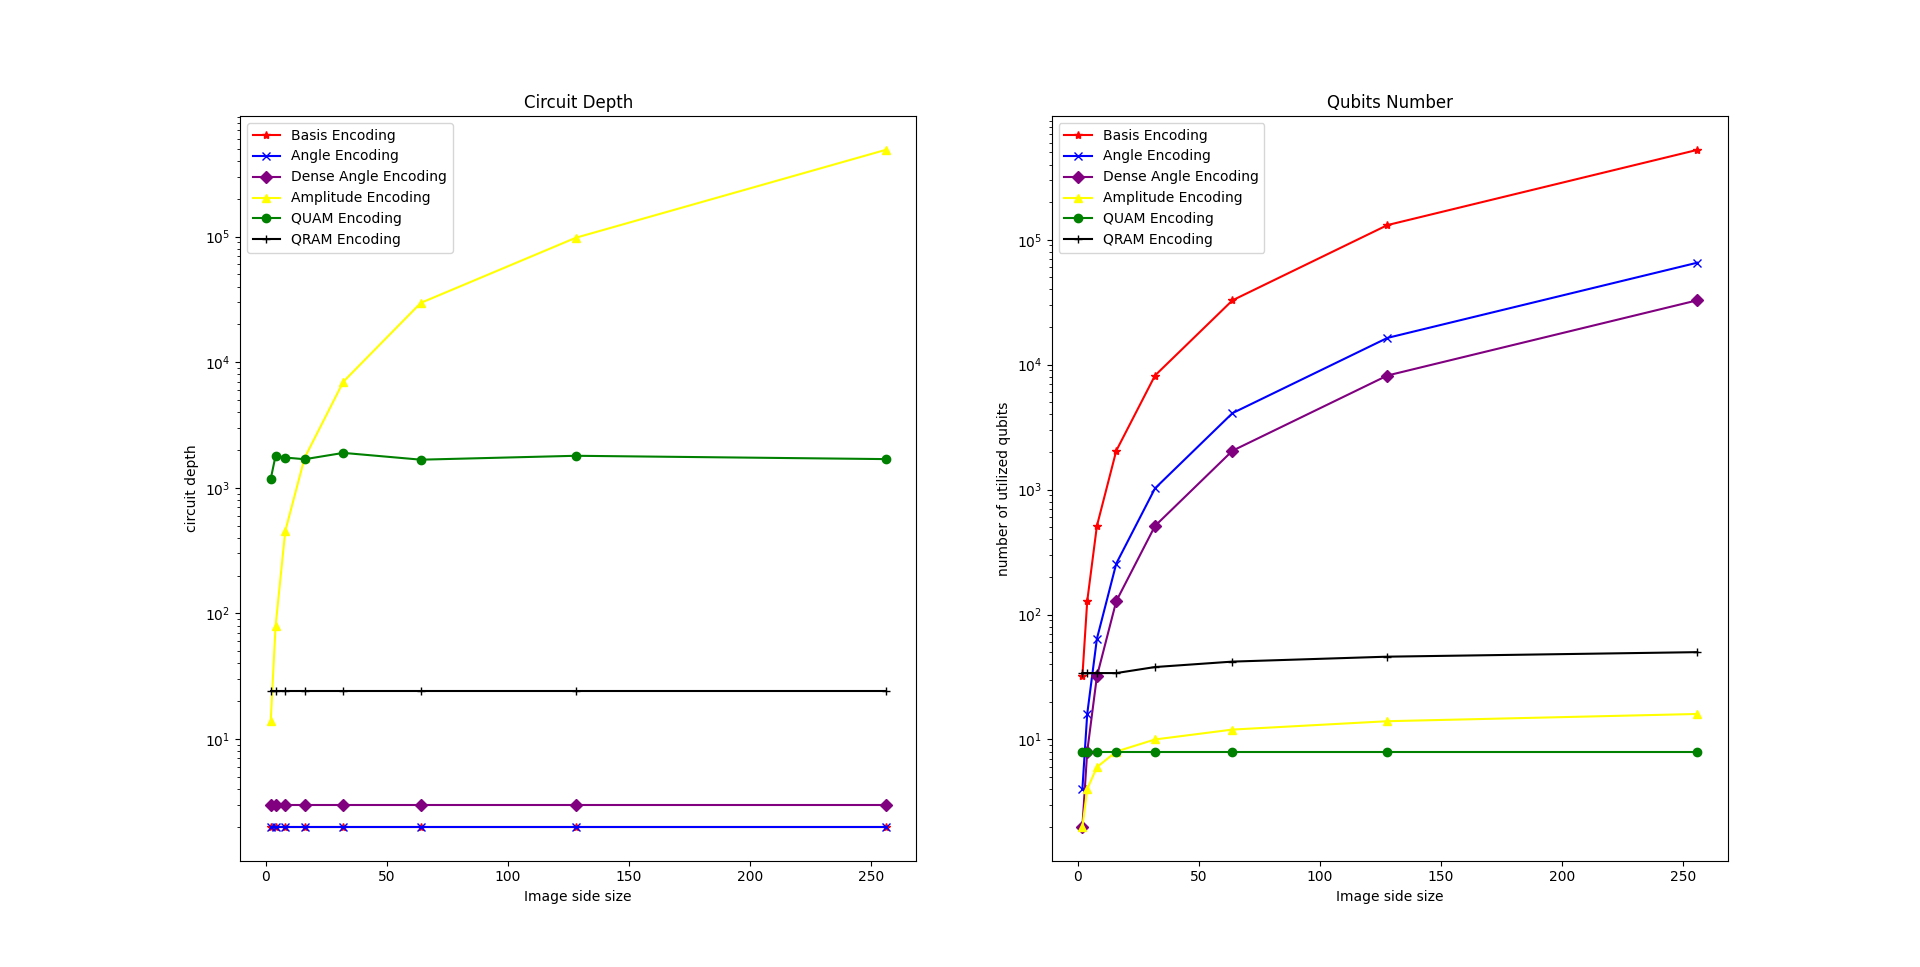
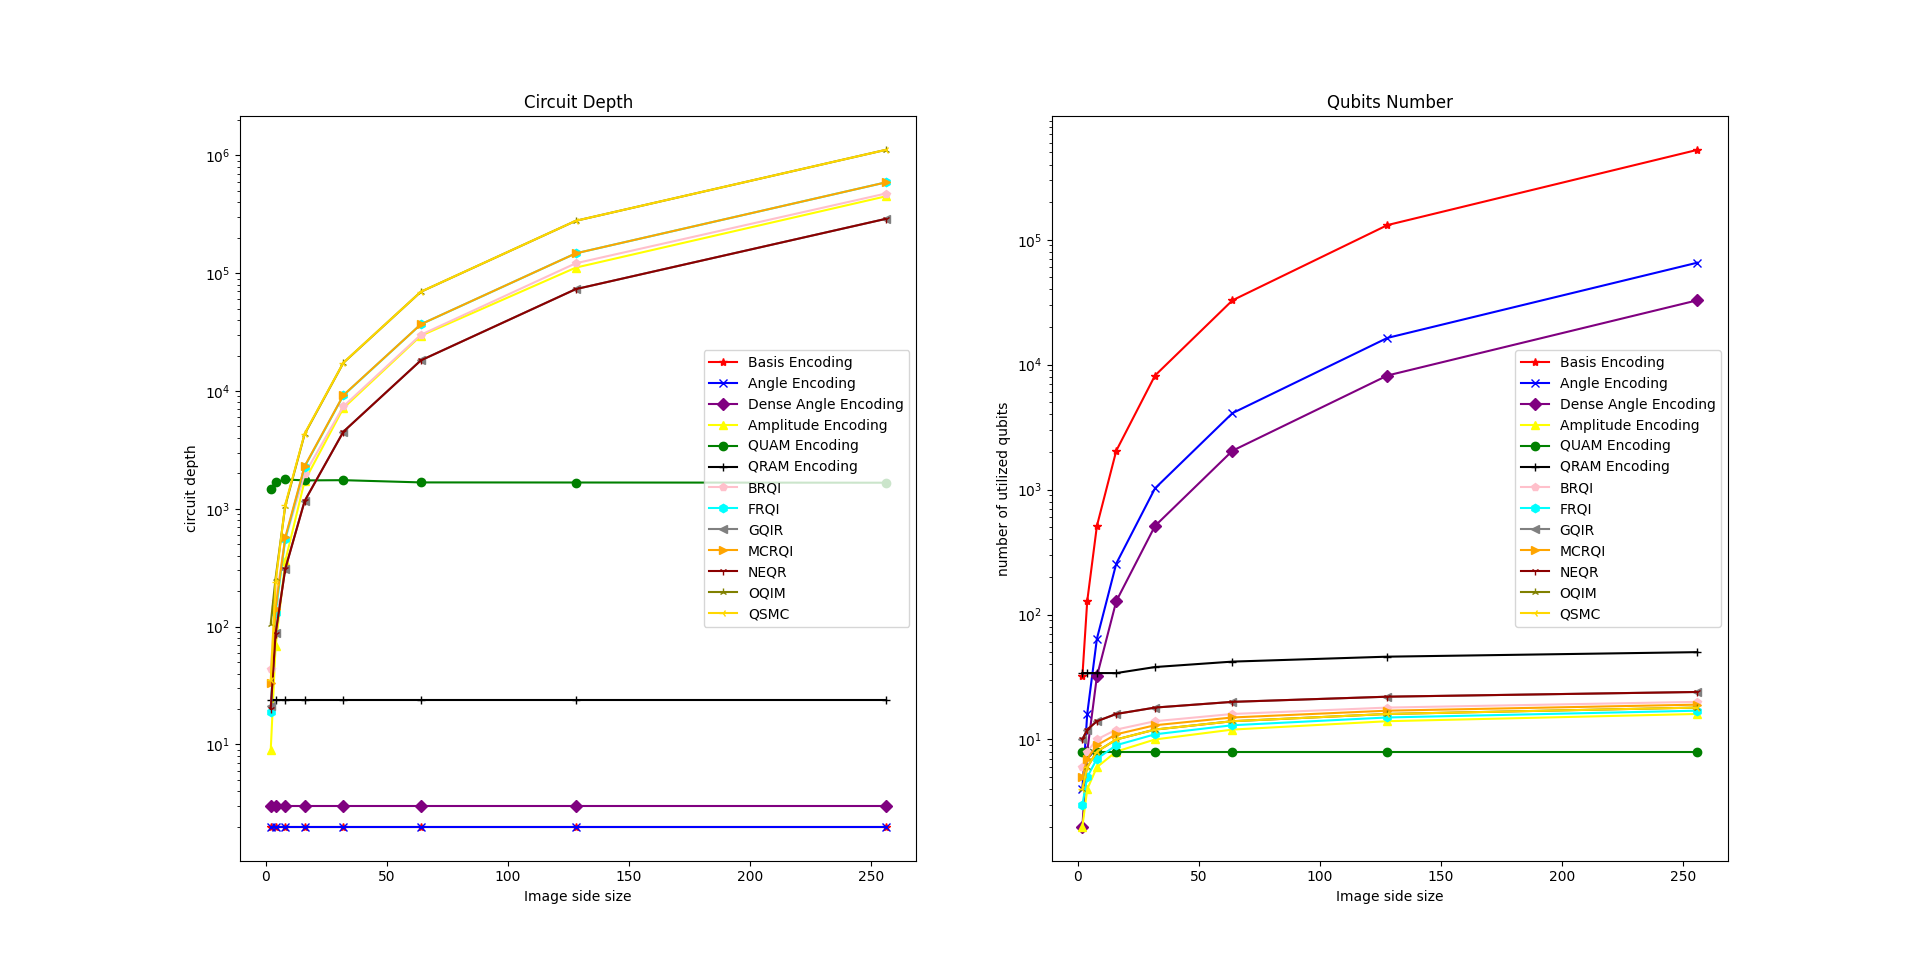
Upload

diff --git a/circuitEval.py b/circuitEval.py
@@ -147,38 +147,38 @@ if __name__ == '__main__':
[1 lines of base64/hex data omitted]
     hardware = setQiskitBackend(token, 'ibm_brisbane')
     sim = Aer.get_backend('qasm_simulator')
-    # amp_depths, amp_nums = circuitEvaluation(imgPath, imgSizeList, encoding='Amplitude Encoding', backend=hardware)
-    # dense_depths, dense_nums = circuitEvaluation(imgPath, imgSizeList, encoding='Dense Angle Encoding', backend=hardware)
-    # quam_depths, quam_nums = circuitEvaluation(imgPath, imgSizeList, encoding='QUAM Encoding', backend=hardware)
-    # basis_depths, basis_nums = circuitEvaluation(imgPath, imgSizeList, encoding='Basis Encoding', backend=hardware) # sim
-    # angle_depths, angle_nums = circuitEvaluation(imgPath, imgSizeList, encoding='Angle Encoding', backend=hardware)
-    # qram_depths, qram_nums = circuitEvaluation(imgPath, imgSizeList, encoding='QRAM Encoding', backend=hardware)
+    amp_depths, amp_nums = circuitEvaluation(imgPath, imgSizeList, encoding='Amplitude Encoding', backend=hardware)
+    dense_depths, dense_nums = circuitEvaluation(imgPath, imgSizeList, encoding='Dense Angle Encoding', backend=hardware)
+    quam_depths, quam_nums = circuitEvaluation(imgPath, imgSizeList, encoding='QUAM Encoding', backend=hardware)
+    basis_depths, basis_nums = circuitEvaluation(imgPath, imgSizeList, encoding='Basis Encoding', backend=hardware) # sim
+    angle_depths, angle_nums = circuitEvaluation(imgPath, imgSizeList, encoding='Angle Encoding', backend=hardware)
+    qram_depths, qram_nums = circuitEvaluation(imgPath, imgSizeList, encoding='QRAM Encoding', backend=hardware)
 
-    # brqi_depths, brqi_nums = circuitEvaluation(imgPath, imgSizeList, encoding='BRQI', backend=hardware)
-    # frqi_depths, frqi_nums = circuitEvaluation(imgPath, imgSizeList, encoding='FRQI', backend=hardware)
+    brqi_depths, brqi_nums = circuitEvaluation(imgPath, imgSizeList, encoding='BRQI', backend=hardware)
+    frqi_depths, frqi_nums = circuitEvaluation(imgPath, imgSizeList, encoding='FRQI', backend=hardware)
     # ftqr_depths, ftqr_nums = circuitEvaluation(imgPath, imgSizeList, encoding='FTQR', backend=sim)
-    # gqir_depths, gqir_nums = circuitEvaluation(imgPath, imgSizeList, encoding='GQIR', backend=hardware)
+    gqir_depths, gqir_nums = circuitEvaluation(imgPath, imgSizeList, encoding='GQIR', backend=hardware)
     mcrqi_depths, mcrqi_nums = circuitEvaluation(imgPath, imgSizeList, encoding='MCRQI', backend=hardware)
-    # neqr_depths, neqr_nums = circuitEvaluation(imgPath, imgSizeList, encoding='NEQR', backend=sim)
-    # oqim_depths, oqim_nums = circuitEvaluation(imgPath, imgSizeList, encoding='OQIM', backend=sim)
-    # qsmc_depths, qsmc_nums = circuitEvaluation(imgPath, imgSizeList, encoding='QSMC', backend=sim)
+    neqr_depths, neqr_nums = circuitEvaluation(imgPath, imgSizeList, encoding='NEQR', backend=sim)
+    oqim_depths, oqim_nums = circuitEvaluation(imgPath, imgSizeList, encoding='OQIM', backend=sim)
+    qsmc_depths, qsmc_nums = circuitEvaluation(imgPath, imgSizeList, encoding='QSMC', backend=sim)
 
     plt.subplot(1,2,1)
-    # plt.plot(imgSizeList, basis_depths, color = 'red', linestyle='-', label='Basis Encoding', marker='*')
-    # plt.plot(imgSizeList, angle_depths, color = 'blue', linestyle='-', label='Angle Encoding', marker='x')
-    # plt.plot(imgSizeList, dense_depths, color = 'purple', linestyle='-', label='Dense Angle Encoding', marker='D')
-    # plt.plot(imgSizeList, amp_depths, color = 'yellow', linestyle='-', label='Amplitude Encoding', marker='^')
-    # plt.plot(imgSizeList, quam_depths, color = 'green', linestyle='-', label='QUAM Encoding', marker='o')
-    # plt.plot(imgSizeList, qram_depths, color = 'black', linestyle='-', label='QRAM Encoding', marker='+')
+    plt.plot(imgSizeList, basis_depths, color = 'red', linestyle='-', label='Basis Encoding', marker='*')
+    plt.plot(imgSizeList, angle_depths, color = 'blue', linestyle='-', label='Angle Encoding', marker='x')
+    plt.plot(imgSizeList, dense_depths, color = 'purple', linestyle='-', label='Dense Angle Encoding', marker='D')
+    plt.plot(imgSizeList, amp_depths, color = 'yellow', linestyle='-', label='Amplitude Encoding', marker='^')
+    plt.plot(imgSizeList, quam_depths, color = 'green', linestyle='-', label='QUAM Encoding', marker='o')
+    plt.plot(imgSizeList, qram_depths, color = 'black', linestyle='-', label='QRAM Encoding', marker='+')
 
-    # plt.plot(imgSizeList, brqi_depths, color = 'pink', linestyle='-', label='BRQI', marker='p')
-    # plt.plot(imgSizeList, frqi_depths, color = 'cyan', linestyle='-', label='FRQI', marker='h')
+    plt.plot(imgSizeList, brqi_depths, color = 'pink', linestyle='-', label='BRQI', marker='p')
+    plt.plot(imgSizeList, frqi_depths, color = 'cyan', linestyle='-', label='FRQI', marker='h')
     # plt.plot(imgSizeList, ftqr_depths, color = 'brown', linestyle='-', label='FTQR', marker='v')
-    # plt.plot(imgSizeList, gqir_depths, color = 'gray', linestyle='-', label='GQIR', marker='<')
+    plt.plot(imgSizeList, gqir_depths, color = 'gray', linestyle='-', label='GQIR', marker='<')
     plt.plot(imgSizeList, mcrqi_depths, color = 'orange', linestyle='-', label='MCRQI', marker='>')
-    # plt.plot(imgSizeList, neqr_depths, color = 'darkred', linestyle='-', label='NEQR', marker='1')
-    # plt.plot(imgSizeList, oqim_depths, color = 'olive', linestyle='-', label='OQIM', marker='2')
-    # plt.plot(imgSizeList, qsmc_depths, color = 'gold', linestyle='-', label='QSMC', marker='3')
+    plt.plot(imgSizeList, neqr_depths, color = 'darkred', linestyle='-', label='NEQR', marker='1')
+    plt.plot(imgSizeList, oqim_depths, color = 'olive', linestyle='-', label='OQIM', marker='2')
+    plt.plot(imgSizeList, qsmc_depths, color = 'gold', linestyle='-', label='QSMC', marker='3')
 
     plt.legend(loc='best')
     plt.xlabel('Image side size')
@@ -187,21 +187,21 @@ if __name__ == '__main__':
     plt.title('Circuit Depth')
 
     plt.subplot(1,2,2)
-    # plt.plot(imgSizeList, basis_nums, color='red', linestyle='-', label='Basis Encoding', marker='*')
-    # plt.plot(imgSizeList, angle_nums, color='blue', linestyle='-', label='Angle Encoding', marker='x')
-    # plt.plot(imgSizeList, dense_nums, color='purple', linestyle='-', label='Dense Angle Encoding', marker='D')
-    # plt.plot(imgSizeList, amp_nums, color='yellow', linestyle='-', label='Amplitude Encoding', marker='^')
-    # plt.plot(imgSizeList, quam_nums, color='green', linestyle='-', label='QUAM Encoding', marker='o')
-    # plt.plot(imgSizeList, qram_nums, color = 'black', linestyle='-', label='QRAM Encoding', marker='+')
+    plt.plot(imgSizeList, basis_nums, color='red', linestyle='-', label='Basis Encoding', marker='*')
+    plt.plot(imgSizeList, angle_nums, color='blue', linestyle='-', label='Angle Encoding', marker='x')
+    plt.plot(imgSizeList, dense_nums, color='purple', linestyle='-', label='Dense Angle Encoding', marker='D')
+    plt.plot(imgSizeList, amp_nums, color='yellow', linestyle='-', label='Amplitude Encoding', marker='^')
+    plt.plot(imgSizeList, quam_nums, color='green', linestyle='-', label='QUAM Encoding', marker='o')
+    plt.plot(imgSizeList, qram_nums, color = 'black', linestyle='-', label='QRAM Encoding', marker='+')
 
-    # plt.plot(imgSizeList, brqi_nums, color = 'pink', linestyle='-', label='BRQI', marker='p')
-    # plt.plot(imgSizeList, frqi_nums, color = 'cyan', linestyle='-', label='FRQI', marker='h')
+    plt.plot(imgSizeList, brqi_nums, color = 'pink', linestyle='-', label='BRQI', marker='p')
+    plt.plot(imgSizeList, frqi_nums, color = 'cyan', linestyle='-', label='FRQI', marker='h')
     # plt.plot(imgSizeList, ftqr_nums, color = 'brown', linestyle='-', label='FTQR', marker='v')
-    # plt.plot(imgSizeList, gqir_nums, color = 'gray', linestyle='-', label='GQIR', marker='<')
+    plt.plot(imgSizeList, gqir_nums, color = 'gray', linestyle='-', label='GQIR', marker='<')
     plt.plot(imgSizeList, mcrqi_nums, color = 'orange', linestyle='-', label='MCRQI', marker='>')
-    # plt.plot(imgSizeList, neqr_nums, color = 'darkred', linestyle='-', label='NEQR', marker='1')
-    # plt.plot(imgSizeList, oqim_nums, color = 'olive', linestyle='-', label='OQIM', marker='2')
-    # plt.plot(imgSizeList, qsmc_nums, color = 'gold', linestyle='-', label='QSMC', marker='3')
+    plt.plot(imgSizeList, neqr_nums, color = 'darkred', linestyle='-', label='NEQR', marker='1')
+    plt.plot(imgSizeList, oqim_nums, color = 'olive', linestyle='-', label='OQIM', marker='2')
+    plt.plot(imgSizeList, qsmc_nums, color = 'gold', linestyle='-', label='QSMC', marker='3')
 
     plt.legend(loc='best')
     plt.xlabel('Image side size')
